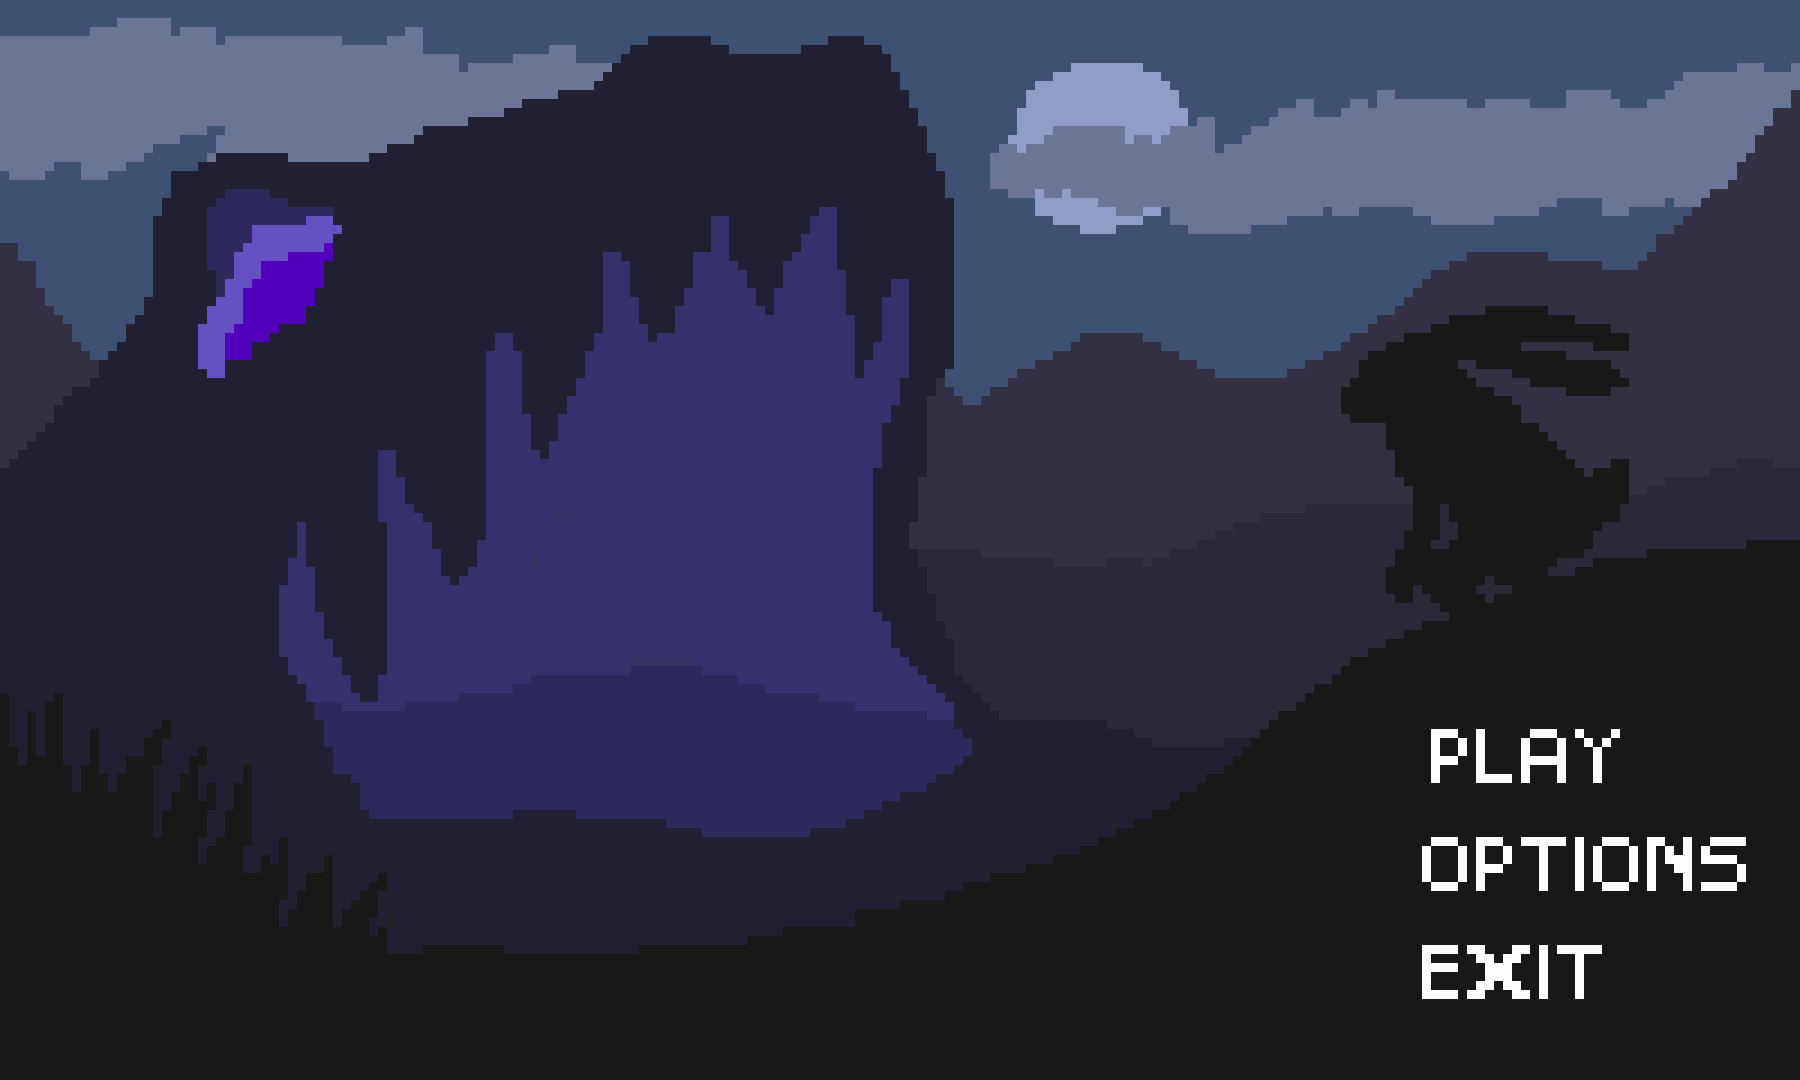
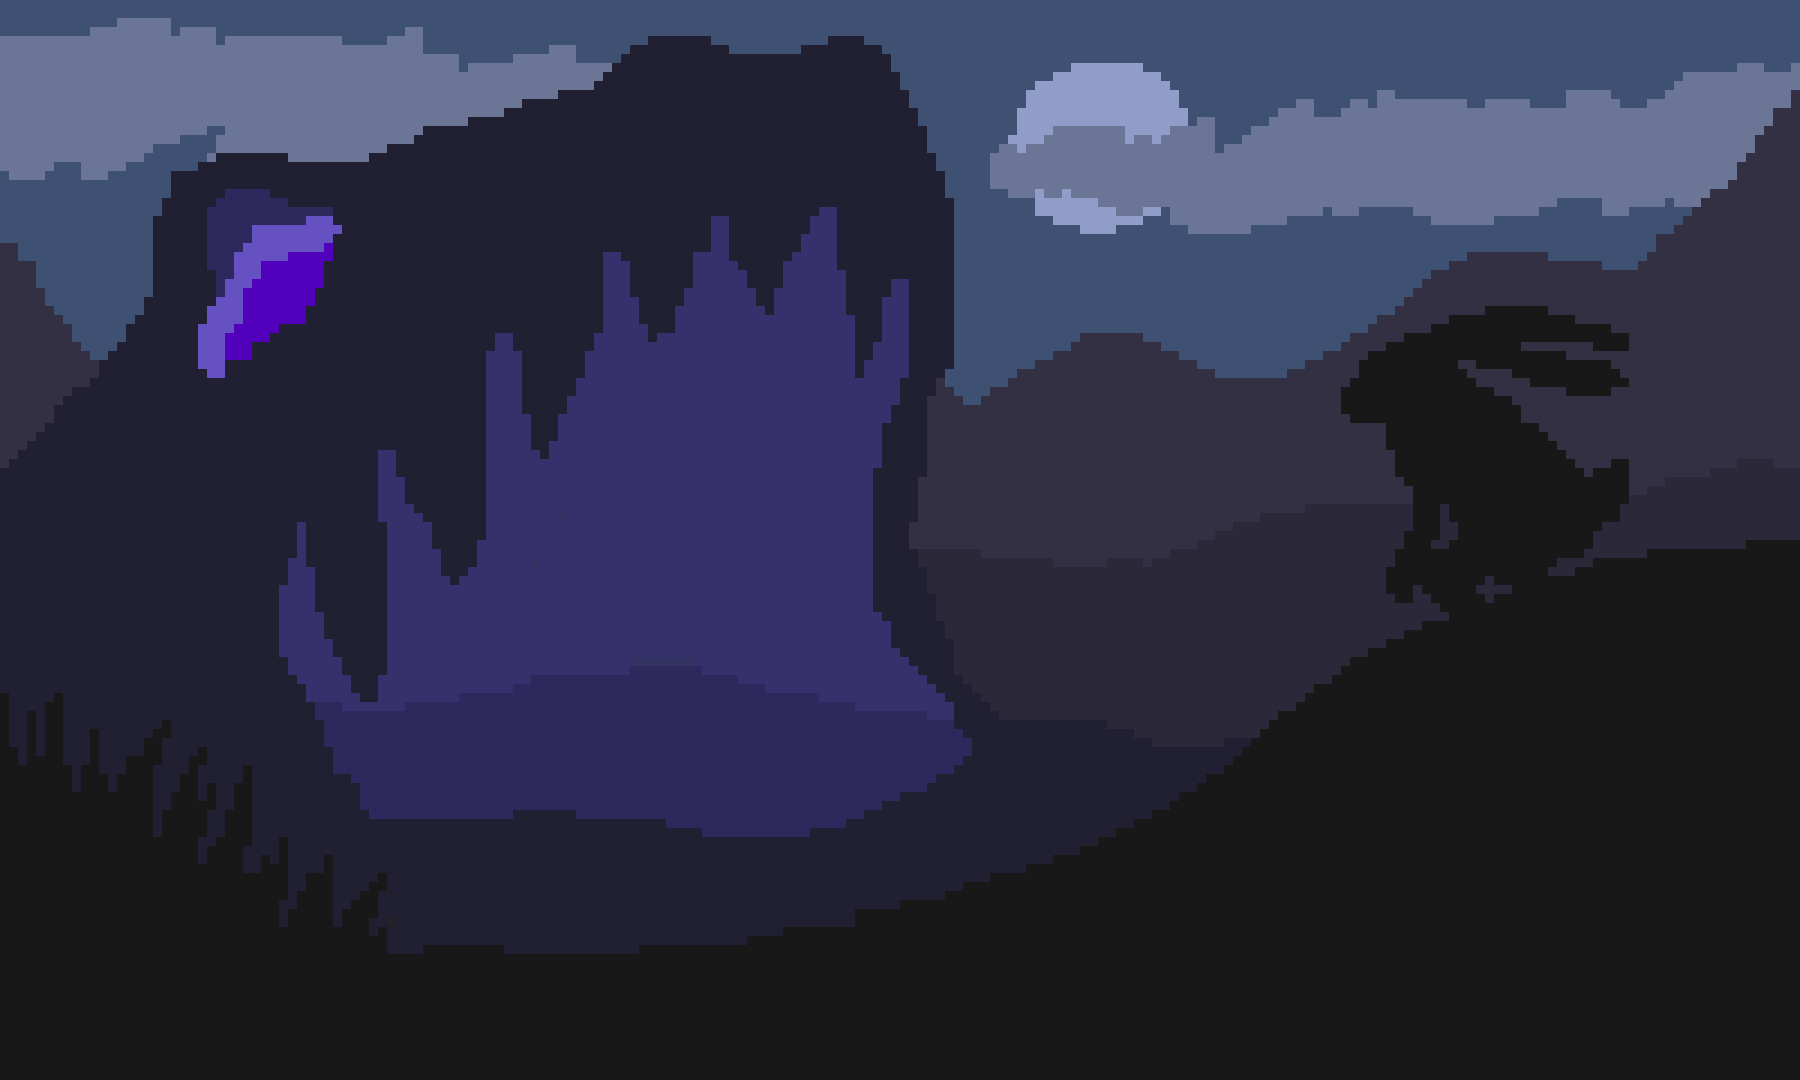
Remade main menu.

Changed region(s): [[0.7778, 0.7639, 0.9644, 0.825], [0.7778, 0.8556, 0.9022, 0.9472], [0.7778, 0.6722, 0.9022, 0.7333]]

diff --git a/CIU212MajorProject2D/Assets/Scripts/MainMenu/MainMenuManager.cs b/CIU212MajorProject2D/Assets/Scripts/MainMenu/MainMenuManager.cs
@@ -1,0 +1,23 @@
+using System.Collections;
+using System.Collections.Generic;
+using UnityEngine;
+using UnityEngine.UI;
+using UnityEngine.SceneManagement;
+
+public class MainMenuManager : MonoBehaviour {
+
+	public void Button_Play_Clicked ()
+    {
+        SceneManager.LoadScene("SafeZoneGreybox");
+    }
+
+    public void Button_Options_Clicked ()
+    {
+        
+    }
+
+    public void Button_Quit_Clicked ()
+    {
+        Application.Quit();
+    }
+}
